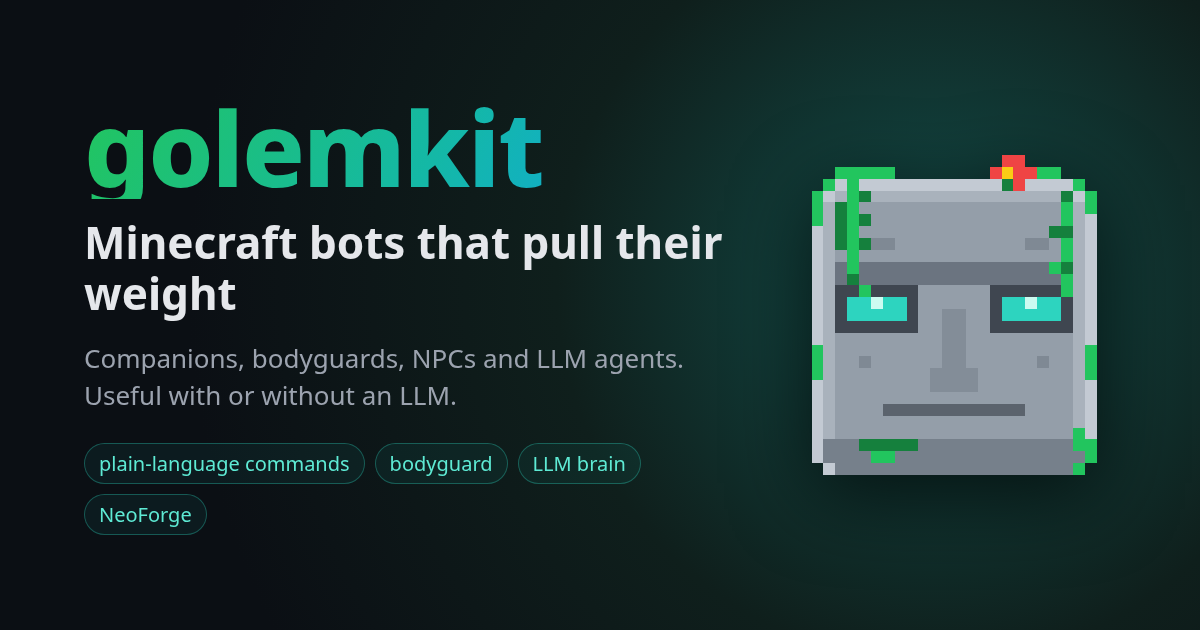
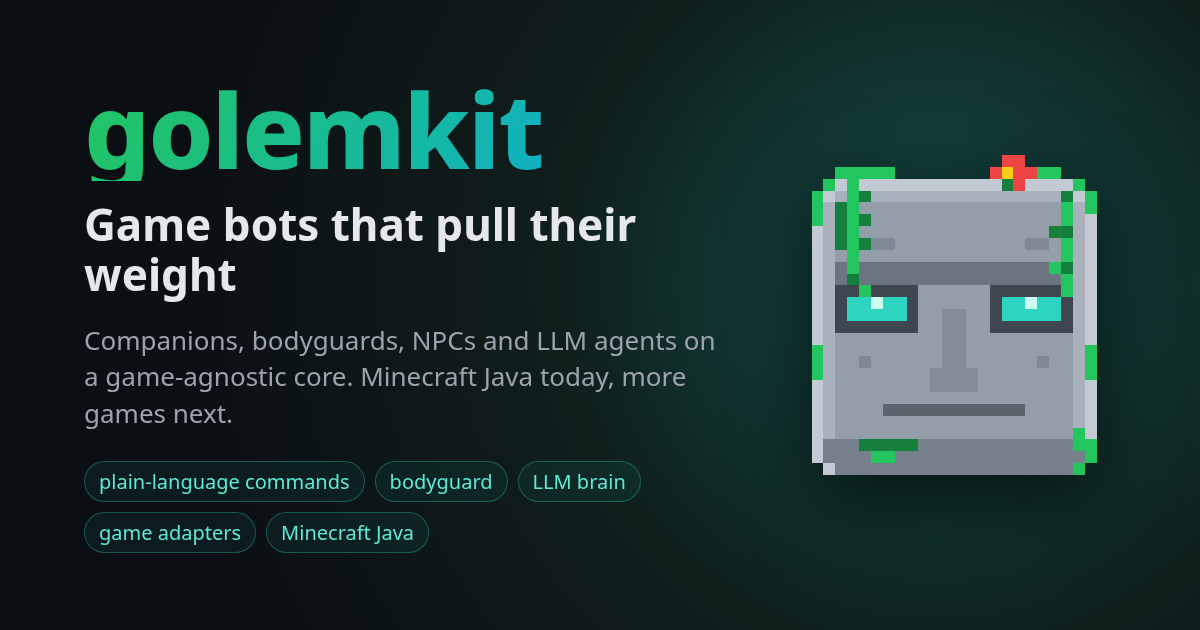
Describe golemkit as a game bot framework: game-agnostic core, Minecraft Java adapter today

Changed region(s): [[0.0617, 0.1206, 0.6167, 0.6937], [0.0617, 0.7238, 0.5242, 0.8746]]

diff --git a/docs/.vitepress/config.ts b/docs/.vitepress/config.ts
@@ -4,7 +4,7 @@ import { withMermaid } from 'vitepress-plugin-mermaid'
 // Local docs site: `just docs` (dev server) or `just docs-build` (static HTML in docs/.vitepress/dist).
 export default withMermaid(defineConfig({
   title: 'golemkit',
-  description: 'Minecraft bot framework on Mineflayer, for NeoForge, Paper and vanilla servers',
+  description: 'Game bot framework with a game-agnostic core; Minecraft Java on Mineflayer (NeoForge, Paper, vanilla) today',
   cleanUrls: true,
   // '/' locally; the GitHub Pages workflow sets DOCS_BASE=/golemkit/ (the site lives under the repo name)
   base: process.env.DOCS_BASE || '/',
@@ -15,8 +15,8 @@ export default withMermaid(defineConfig({
     // link previews (GitHub, Slack, Discord, X): absolute URLs, since crawlers don't resolve the base
     ['meta', { property: 'og:type', content: 'website' }],
     ['meta', { property: 'og:site_name', content: 'golemkit' }],
-    ['meta', { property: 'og:title', content: 'golemkit: Minecraft bots that pull their weight' }],
-    ['meta', { property: 'og:description', content: 'A TypeScript framework for companions, bodyguards, NPCs and LLM agents on Mineflayer, with first-class NeoForge support. Useful with or without an LLM.' }],
+    ['meta', { property: 'og:title', content: 'golemkit: game bots that pull their weight' }],
+    ['meta', { property: 'og:description', content: 'A TypeScript framework for companions, bodyguards, NPCs and LLM agents on a game-agnostic core. Minecraft Java today, more games next. Useful with or without an LLM.' }],
     ['meta', { property: 'og:image', content: 'https://thereisnotime.github.io/golemkit/og.png' }],
     ['meta', { property: 'og:image:width', content: '1200' }],
     ['meta', { property: 'og:image:height', content: '630' }],

diff --git a/docs/index.md b/docs/index.md
@@ -3,7 +3,7 @@ layout: home
 hero:
   name: golemkit
   text: '<span class="slot" data-words="Minecraft:now|Luanti:soon|Bedrock:soon|Terraria:idea|Factorio:idea|Vintage Story:idea">Minecraft</span><br/>bots that pull their weight'
-  tagline: 'A TypeScript framework for companions, bodyguards, NPCs and LLM agents, useful with or without an LLM. Runs on <span class="slot" data-period="2200" data-words="NeoForge:now|Paper:try|vanilla:try|Spigot:try|Fabric:try|Forge:idea">NeoForge</span> servers.'
+  tagline: 'A TypeScript framework for companions, bodyguards, NPCs and LLM agents, useful with or without an LLM. The core is game-agnostic; today it runs on <span class="slot" data-period="2200" data-words="NeoForge:now|Paper:try|vanilla:try|Spigot:try|Fabric:try|Forge:idea">NeoForge</span> Minecraft servers.'
   image:
     src: /golem.svg
     alt: golemkit

diff --git a/AGENTS.md b/AGENTS.md
@@ -1,6 +1,6 @@
 # golemkit
 
-Framework for Minecraft bots built on Mineflayer, tested on NeoForge (vanilla and Paper work too, picked with `MC_PLATFORM`). The game sits behind an adapter interface, so the core is game-agnostic. TypeScript run directly by Node (see `.tool-versions`), no build step. Read `docs/concepts/architecture.md` before changing core, skills or brains.
+Framework for game bots with a game-agnostic core; each game sits behind an adapter interface. The one adapter today is Minecraft Java on Mineflayer, tested on NeoForge (vanilla and Paper work too, picked with `MC_PLATFORM`). TypeScript run directly by Node (see `.tool-versions`), no build step. Read `docs/concepts/architecture.md` before changing core, skills or brains.
 
 ## Layout
 

diff --git a/README.md b/README.md
@@ -5,9 +5,9 @@
 <h1 align="center">golemkit</h1>
 
 <p align="center">
-  <b>Minecraft bots that pull their weight.</b><br>
-  A TypeScript framework for companions, bodyguards, NPCs and LLM agents,<br>
-  built on Mineflayer with first-class NeoForge support. Useful with or without an LLM.
+  <b>Game bots that pull their weight.</b><br>
+  A TypeScript framework for companions, bodyguards, NPCs and LLM agents on a game-agnostic core.<br>
+  The first adapter is Minecraft Java on Mineflayer (NeoForge, Paper, vanilla). Useful with or without an LLM.
 </p>
 
 <p align="center">
